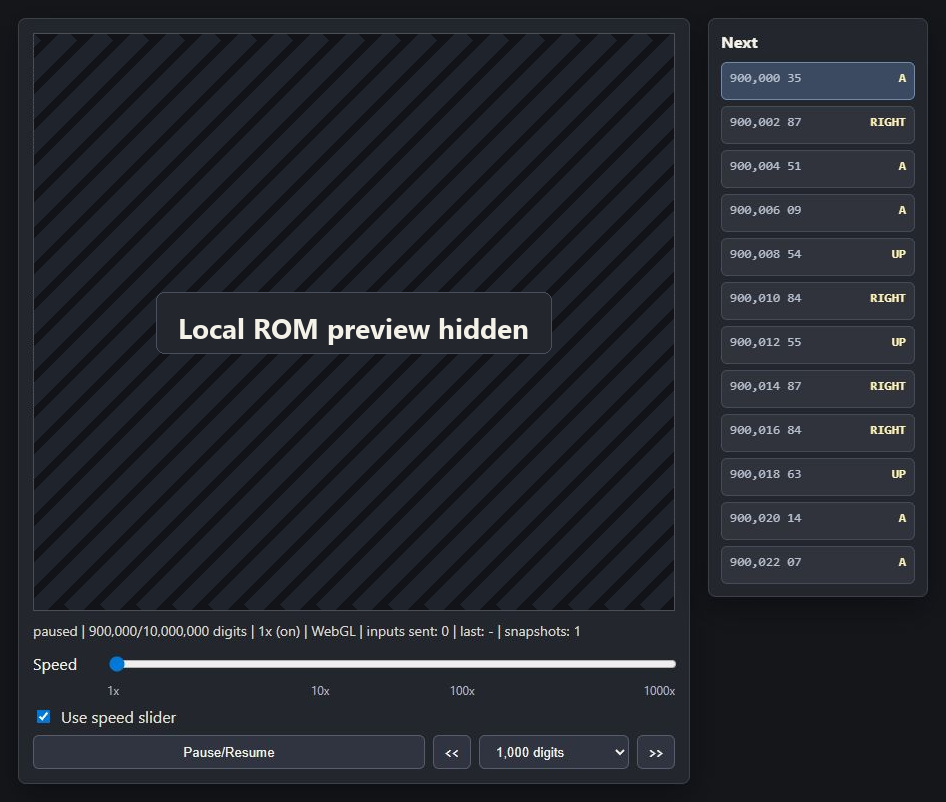
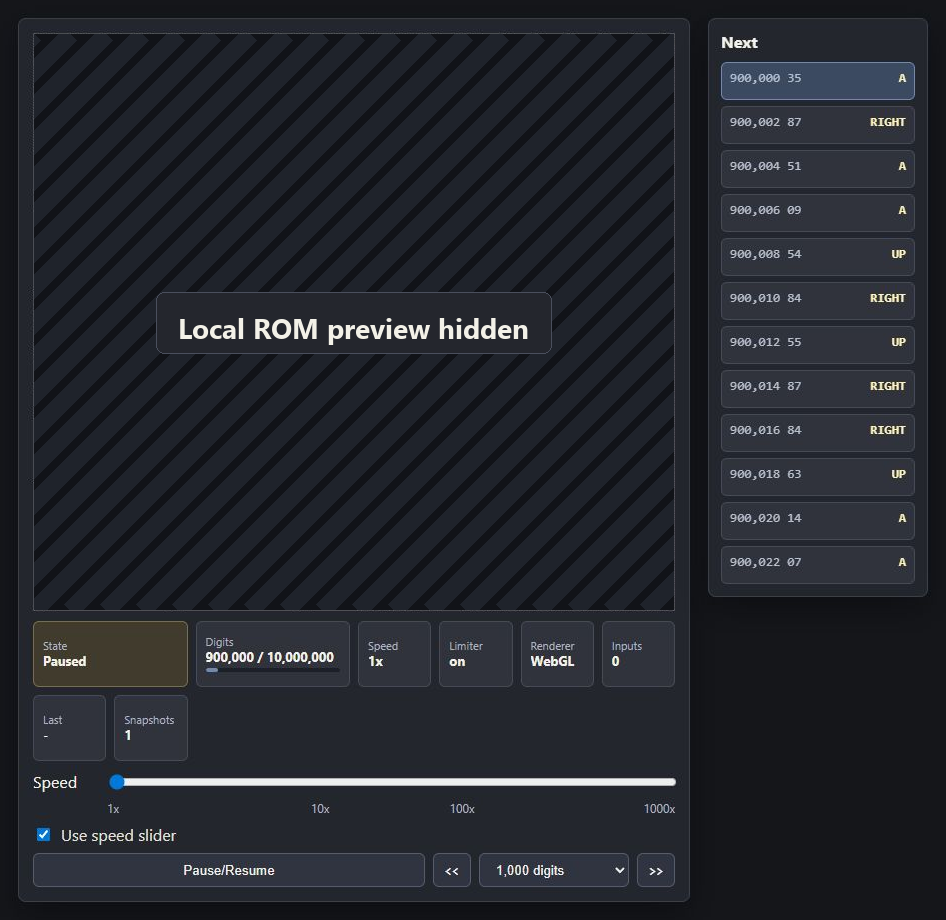
Replace reviewer status line with stat cards

diff --git a/web/review/style.css b/web/review/style.css
@@ -49,12 +49,86 @@ body {
   image-rendering: pixelated;
 }
 
-.status {
+.status-grid {
+  display: grid;
+  grid-template-columns: repeat(8, minmax(0, 1fr));
+  gap: 8px;
   margin: 10px 0;
-  min-height: 22px;
-  font-size: 14px;
-  color: #d9d7ce;
+}
+
+.stat-card {
+  min-height: 48px;
+  padding: 8px 9px;
+  display: grid;
+  align-content: center;
+  gap: 3px;
+  background: #30333c;
+  border: 1px solid #454b58;
+  border-radius: 6px;
+}
+
+.state-card,
+.progress-card {
+  grid-column: span 2;
+}
+
+.stat-label {
+  color: #aeb4c0;
+  font-size: 11px;
+  line-height: 1;
+}
+
+.stat-card strong {
+  min-width: 0;
+  color: #f3f1e8;
+  font-size: 13px;
+  line-height: 1.15;
+  font-weight: 700;
+  overflow: hidden;
+  text-overflow: ellipsis;
   white-space: nowrap;
+}
+
+.status-grid[data-state="running"] .state-card {
+  border-color: #6f89af;
+  background: #344257;
+}
+
+.status-grid[data-state="paused"] .state-card,
+.status-grid[data-state="rewound-to-digits"] .state-card {
+  border-color: #7a6f49;
+  background: #403b2d;
+}
+
+.status-grid[data-state^="fast-forwarding"] .state-card,
+.status-grid[data-state="pause-pending"] .state-card {
+  border-color: #7a6ca7;
+  background: #3e3755;
+}
+
+.status-grid[data-state="complete"] .state-card {
+  border-color: #6e9b7b;
+  background: #334b3a;
+}
+
+.status-grid[data-state="disconnected"] .state-card {
+  border-color: #9d6670;
+  background: #4a3438;
+}
+
+.progress-bar {
+  height: 4px;
+  overflow: hidden;
+  background: #1c1f26;
+  border-radius: 999px;
+}
+
+.progress-bar span {
+  display: block;
+  width: 0;
+  height: 100%;
+  background: #6f89af;
+  border-radius: inherit;
 }
 
 .controls {

diff --git a/web/review/app.js b/web/review/app.js
@@ -1,5 +1,14 @@
 const screen = document.querySelector("#screen");
 const statusEl = document.querySelector("#status");
+const statStateEl = document.querySelector("#stat-state");
+const statDigitsEl = document.querySelector("#stat-digits");
+const statProgressEl = document.querySelector("#stat-progress span");
+const statSpeedEl = document.querySelector("#stat-speed");
+const statLimiterEl = document.querySelector("#stat-limiter");
+const statRendererEl = document.querySelector("#stat-renderer");
+const statInputsEl = document.querySelector("#stat-inputs");
+const statLastEl = document.querySelector("#stat-last");
+const statSnapshotsEl = document.querySelector("#stat-snapshots");
 const speedEl = document.querySelector("#speed");
 const limiterEl = document.querySelector("#limiter");
 const pauseEl = document.querySelector("#pause");
@@ -214,15 +223,57 @@ function setInitialControls(state) {
   controlsInitialized = true;
 }
 
+function setStateClass(status) {
+  const normalized = String(status).toLowerCase().replace(/[^a-z]+/g, "-");
+  statusEl.dataset.state = normalized || "unknown";
+}
+
+function displayState(status) {
+  const value = String(status);
+  if (value.startsWith("fast forwarding")) {
+    return "Fast-forward";
+  }
+  if (value.startsWith("rewound")) {
+    return "Rewound";
+  }
+  return value.charAt(0).toUpperCase() + value.slice(1);
+}
+
+function renderStats(state) {
+  const progress = state.max_digits > 0
+    ? Math.min(100, (Number(state.digits_consumed) / Number(state.max_digits)) * 100)
+    : 0;
+  setStateClass(state.status);
+  statStateEl.textContent = displayState(state.status);
+  statStateEl.title = state.status;
+  statDigitsEl.textContent = `${fmt(state.digits_consumed)} / ${fmt(state.max_digits)}`;
+  statProgressEl.style.width = `${progress}%`;
+  statSpeedEl.textContent = `${state.speed}x`;
+  statLimiterEl.textContent = state.speed_limiter_enabled;
+  statRendererEl.textContent = renderer.mode;
+  statInputsEl.textContent = fmt(state.inputs_sent);
+  statLastEl.textContent = String(state.last_button).toUpperCase();
+  statSnapshotsEl.textContent = fmt(state.snapshots);
+}
+
 async function refresh() {
   try {
     const response = await fetch("/api/state", { cache: "no-store" });
     const state = await response.json();
     setInitialControls(state);
-    statusEl.textContent = `${state.status} | ${fmt(state.digits_consumed)}/${fmt(state.max_digits)} digits | ${state.speed}x (${state.speed_limiter_enabled}) | ${renderer.mode} | inputs sent: ${fmt(state.inputs_sent)} | last: ${state.last_button} | snapshots: ${state.snapshots}`;
+    renderStats(state);
     renderUpcoming(state.upcoming);
   } catch (error) {
-    statusEl.textContent = `Disconnected: ${error}`;
+    setStateClass("disconnected");
+    statStateEl.textContent = "Disconnected";
+    statDigitsEl.textContent = "-";
+    statProgressEl.style.width = "0";
+    statSpeedEl.textContent = "-";
+    statLimiterEl.textContent = "-";
+    statRendererEl.textContent = renderer.mode;
+    statInputsEl.textContent = "-";
+    statLastEl.textContent = "-";
+    statSnapshotsEl.textContent = "-";
   } finally {
     setTimeout(refresh, 150);
   }

diff --git a/web/review/index.html b/web/review/index.html
@@ -12,7 +12,41 @@
         <div class="screen-shell">
           <canvas id="screen" class="screen" width="160" height="144" aria-label="Game Boy screen"></canvas>
         </div>
-        <div id="status" class="status">Loading...</div>
+        <div id="status" class="status-grid" aria-live="polite">
+          <div class="stat-card state-card">
+            <span class="stat-label">State</span>
+            <strong id="stat-state">Loading</strong>
+          </div>
+          <div class="stat-card progress-card">
+            <span class="stat-label">Digits</span>
+            <strong id="stat-digits">-</strong>
+            <span id="stat-progress" class="progress-bar"><span></span></span>
+          </div>
+          <div class="stat-card">
+            <span class="stat-label">Speed</span>
+            <strong id="stat-speed">-</strong>
+          </div>
+          <div class="stat-card">
+            <span class="stat-label">Limiter</span>
+            <strong id="stat-limiter">-</strong>
+          </div>
+          <div class="stat-card">
+            <span class="stat-label">Renderer</span>
+            <strong id="stat-renderer">-</strong>
+          </div>
+          <div class="stat-card">
+            <span class="stat-label">Inputs</span>
+            <strong id="stat-inputs">-</strong>
+          </div>
+          <div class="stat-card">
+            <span class="stat-label">Last</span>
+            <strong id="stat-last">-</strong>
+          </div>
+          <div class="stat-card">
+            <span class="stat-label">Snapshots</span>
+            <strong id="stat-snapshots">-</strong>
+          </div>
+        </div>
         <div class="controls">
           <label class="speed-row">
             <span>Speed</span>